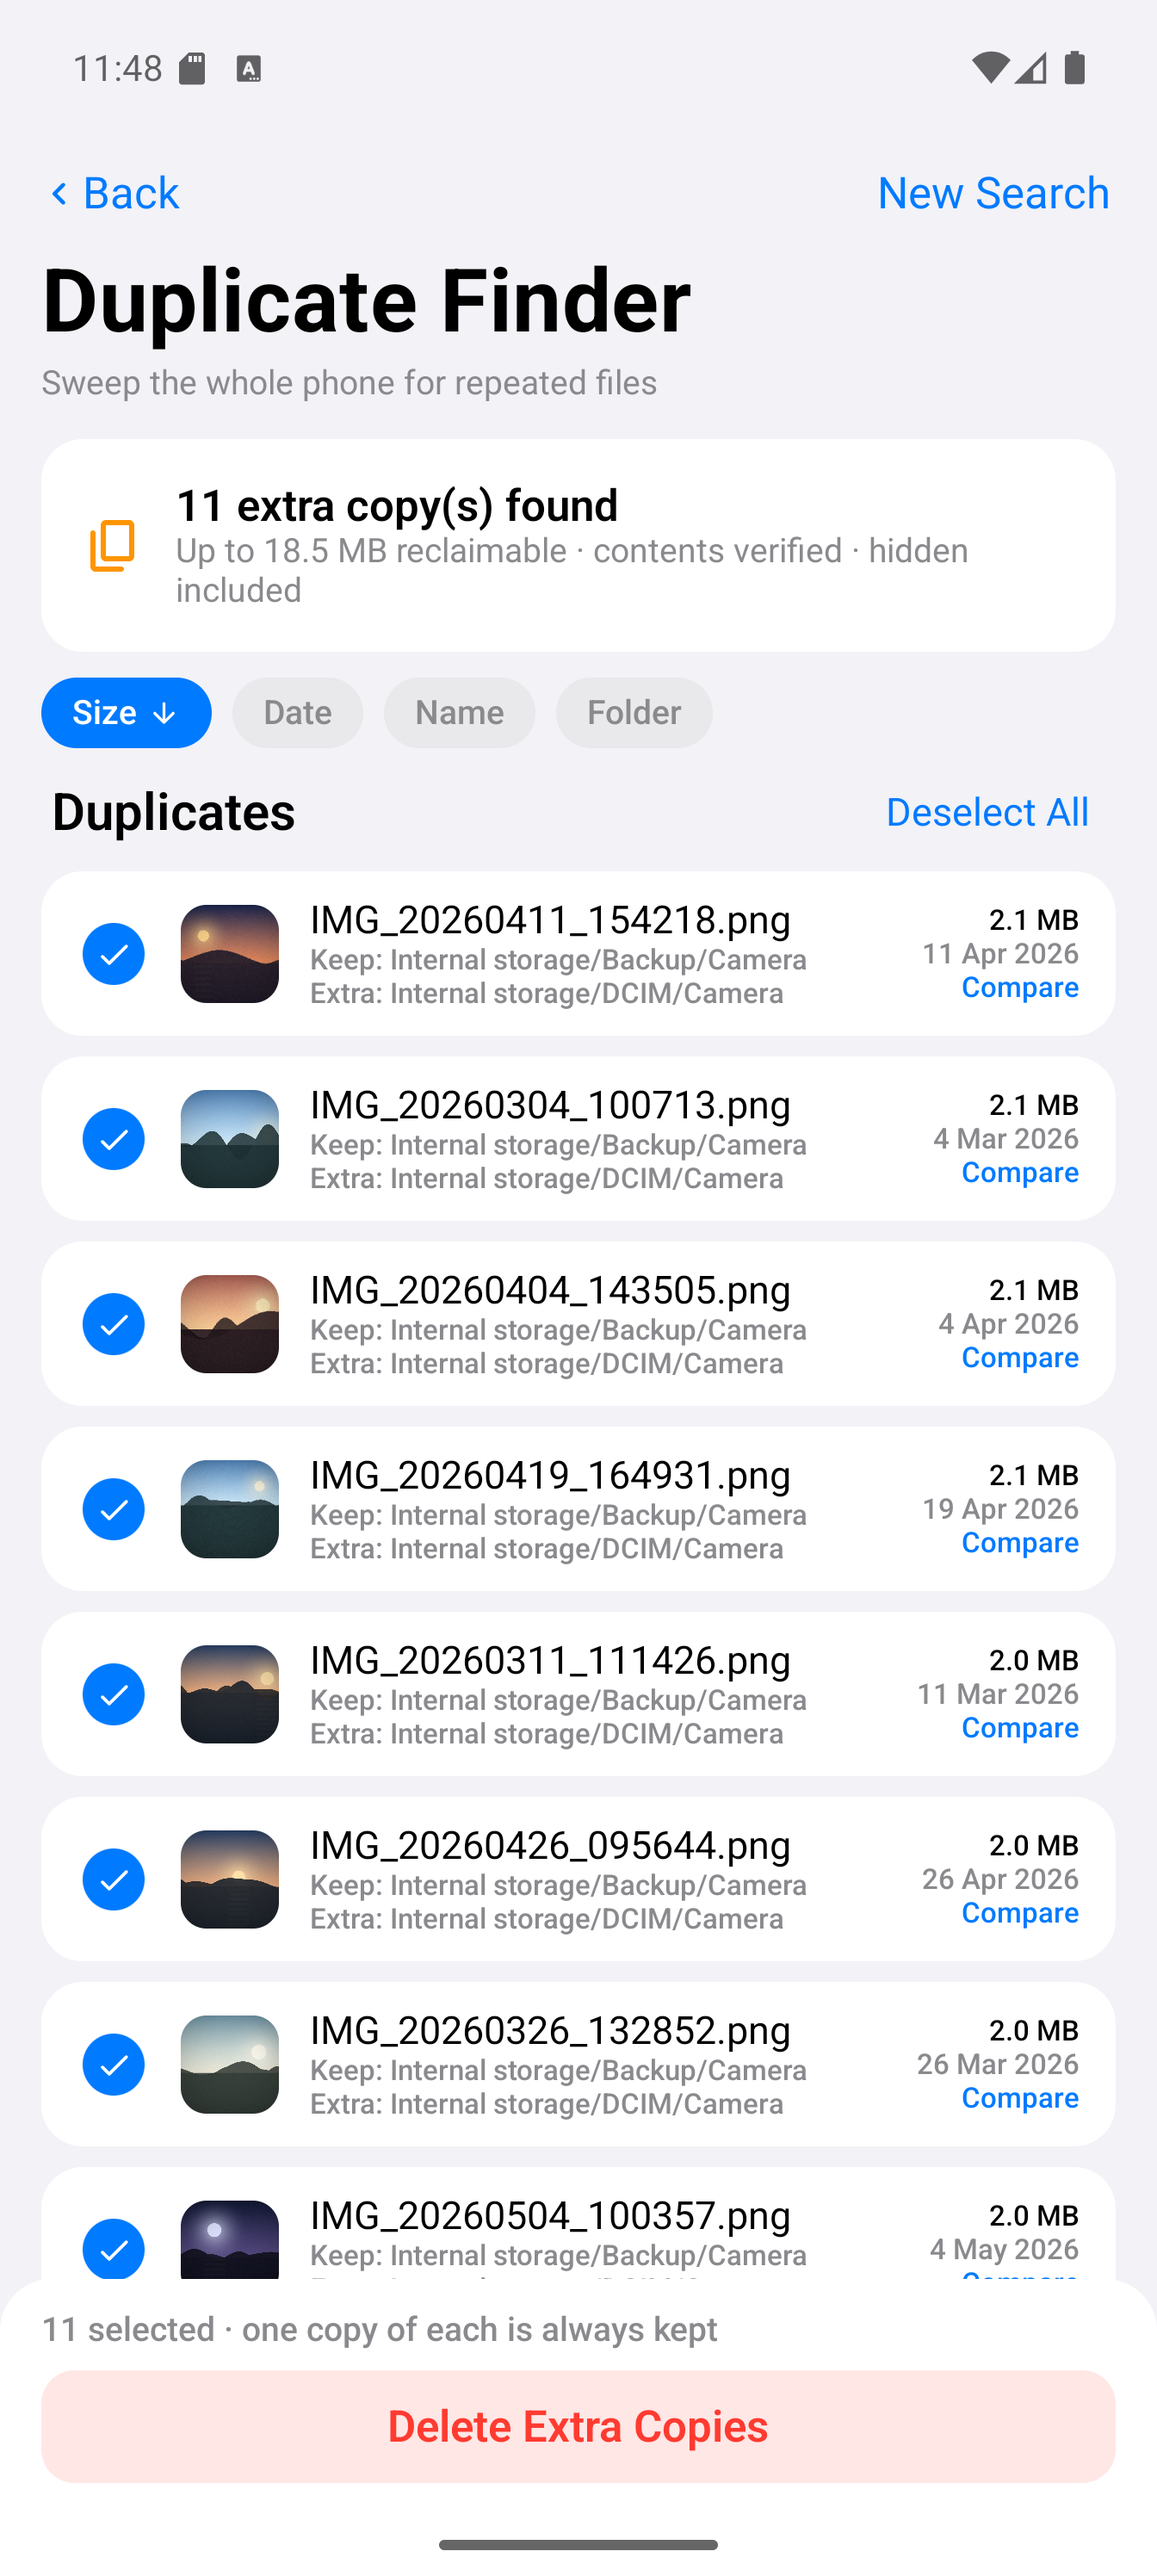
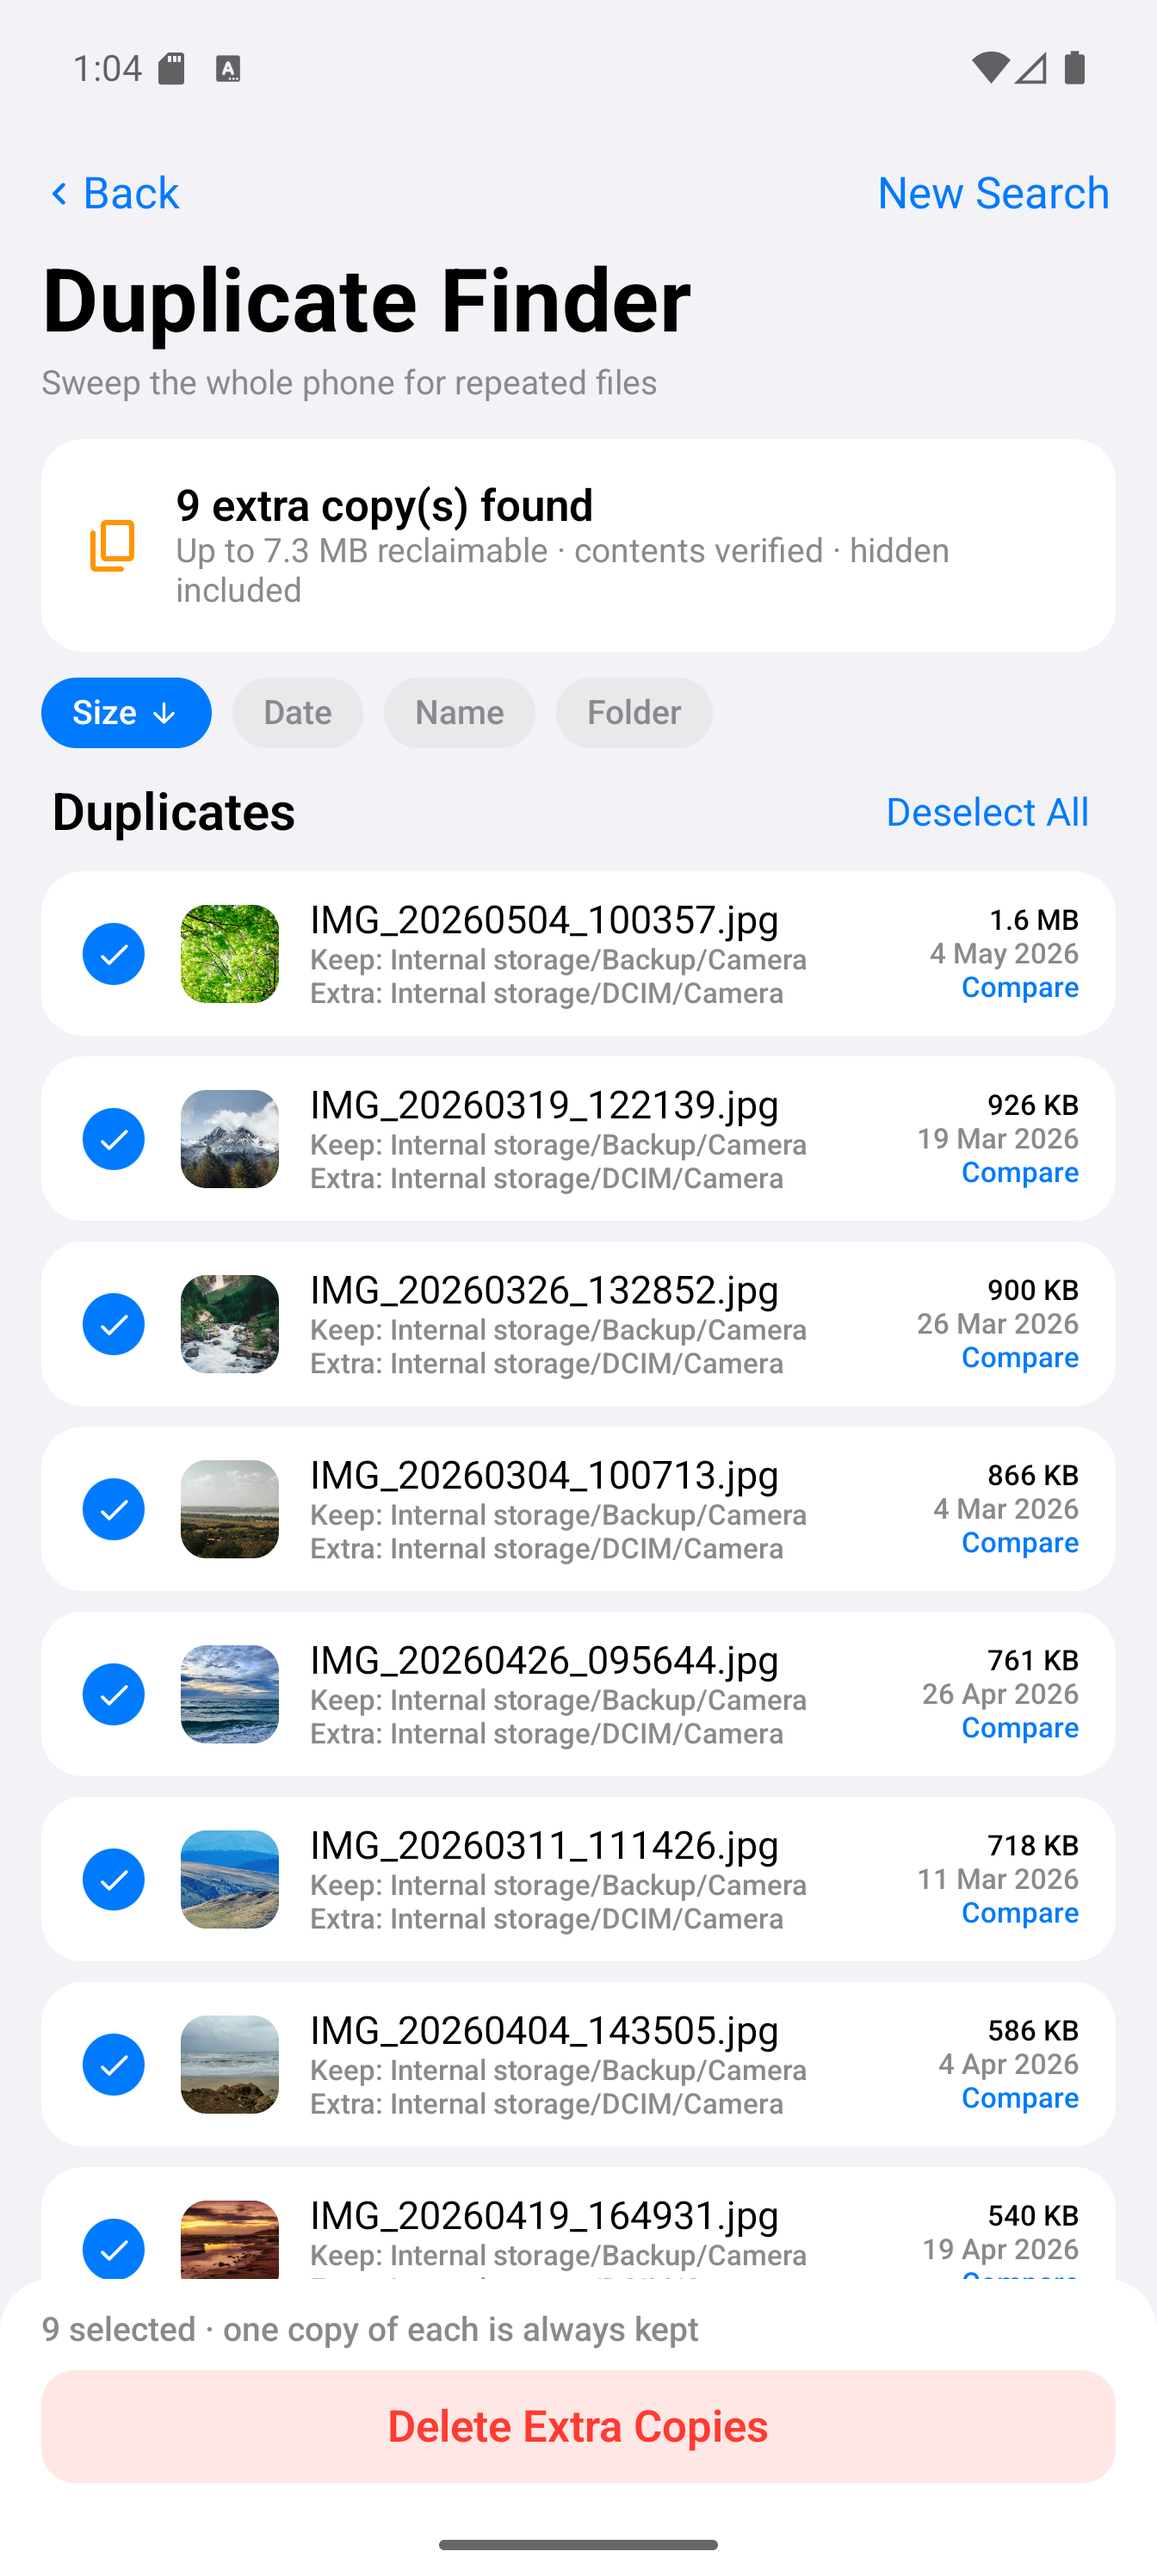
Real photos and video in the store screenshots, and a treemap label fix
The sample media was generated arithmetically before, which read as colour
swatches rather than a camera roll. It is now real photographs and real video
clips from Pexels (Pexels License — free to use, no attribution required).
Unsplash was the first choice; it serves a challenge page to anything
scripted, so nothing could be fetched from it.

All thirteen screenshots recaptured against that content — the gallery,
vault, duplicate results and both dashboards now show genuine photos, and
video files carry real thumbnails.

Also fixed while capturing: treemap tiles clipped their labels through the
middle of a glyph when the tile was too short for a wrapped title plus a size
line. The tile clips its content, so the label now drops the second title line
and then the size line as the tile shrinks, instead of being cut.

diff --git a/app/src/main/java/com/shahabcodes/filestorm/ui/home/InsightCards.kt b/app/src/main/java/com/shahabcodes/filestorm/ui/home/InsightCards.kt
@@ -502,22 +502,27 @@ private fun TreemapChart(slices: List<Slice>) {
                     .padding(7.dp),
             ) {
                 // Only label tiles with room for it; the rest stay clean blocks.
-                if (tile.w > 66f && tile.h > 38f) {
+                // The tile clips its content, so anything that does not fit is
+                // cut through the middle of a glyph — drop lines instead.
+                // 7dp padding each side, ~16dp a line.
+                if (tile.w > 66f && tile.h > 34f) {
                     Column {
                         Text(
                             slice.title,
                             style = MaterialTheme.typography.labelSmall,
                             color = Color.White,
-                            maxLines = 2,
+                            maxLines = if (tile.h > 76f) 2 else 1,
                             overflow = TextOverflow.Ellipsis,
                         )
-                        Spacer(Modifier.height(1.dp))
-                        Text(
-                            Formatters.bytes(slice.bytes),
-                            style = MaterialTheme.typography.labelSmall,
-                            color = Color.White.copy(alpha = 0.9f),
-                            maxLines = 1,
-                        )
+                        if (tile.h > 52f) {
+                            Spacer(Modifier.height(1.dp))
+                            Text(
+                                Formatters.bytes(slice.bytes),
+                                style = MaterialTheme.typography.labelSmall,
+                                color = Color.White.copy(alpha = 0.9f),
+                                maxLines = 1,
+                            )
+                        }
                     }
                 }
             }

diff --git a/STORE_LISTING.md b/STORE_LISTING.md
@@ -179,14 +179,14 @@ backgrounded.
 
 # Screenshots
 
-**Captured.** Twelve are in [`store/screenshots/`](store/screenshots), taken
+**Captured.** Thirteen are in [`store/screenshots/`](store/screenshots), taken
 from the running app on an API 36 emulator at 1344 × 2992. Every one is a real
 frame — nothing is mocked up or retouched.
 
 | File | Screen |
 |---|---|
 | `01-dashboard.png` | Storage donut, category breakdown, Monthly Footprint |
-| `02-vault.png` | Vault unlocked — 24 encrypted files with thumbnails |
+| `02-vault.png` | Vault unlocked — 27 encrypted files with thumbnails |
 | `03-encrypting.png` | Encryption in progress: speed, ETA, per-file bar, counters |
 | `04-duplicates.png` | Whole-storage sweep results, contents verified, sortable |
 | `05-gallery-month.png` | Mosaic view grouped by month |
@@ -197,6 +197,7 @@ frame — nothing is mocked up or retouched.
 | `10-settings-dashboard.png` | Dashboard cards reordered and toggled |
 | `11-context-menu.png` | Folder actions, including Encrypt and Compress |
 | `12-blossom-dashboard.png` | The dashboard in Blossom |
+| `13-vault-settings.png` | Vault options — verification, speed, auto-lock |
 
 ## Which eight to upload
 
@@ -212,14 +213,19 @@ the weight. Recommended order:
 7. `08-music.png`
 8. `07-themes.png`
 
-`09`–`12` are spares — swap `12-blossom-dashboard.png` in for `07` if you would
+`09`–`13` are spares — swap `12-blossom-dashboard.png` in for `07` if you would
 rather lead the theming story with the whole app than with the settings page.
 
-**Note on the sample data.** The device was loaded with generated photos, tones
-and video files so the charts have real shape. If you would rather ship
-screenshots from your own phone, the same walkthrough works — just avoid
-filenames you would not want public. The vault shots are safe by nature; the
-browser ones are not.
+**Note on the sample data.** The device was loaded with real photographs and
+real video clips from Pexels, plus generated audio tones, so the thumbnails,
+charts and month grouping all show genuine content. The Pexels License permits
+this use and requires no attribution. Unsplash was the first choice but it
+serves a challenge page to anything scripted, so nothing could be fetched from
+it.
+
+If you would rather ship screenshots from your own phone, the same walkthrough
+works — just avoid filenames you would not want public. The vault shots are
+safe by nature; the browser ones are not.
 
 ## What Play needs
 
